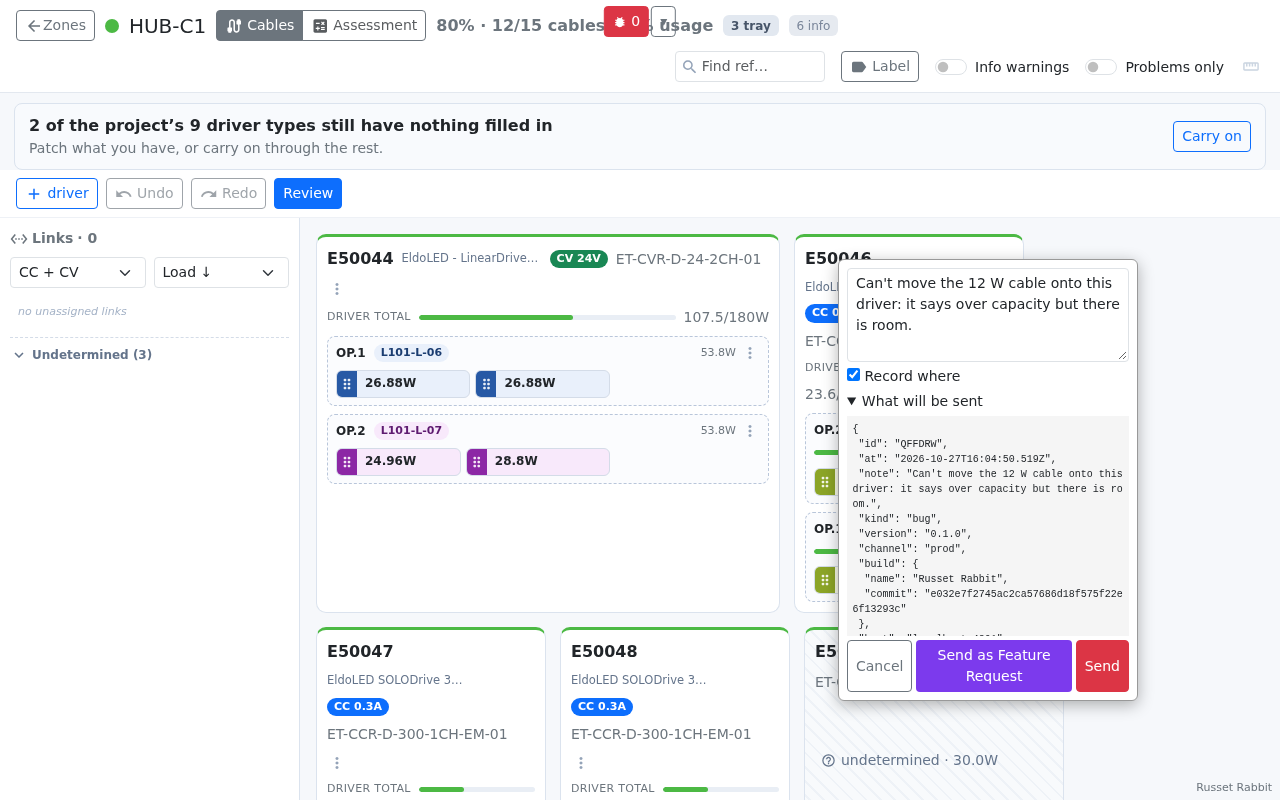
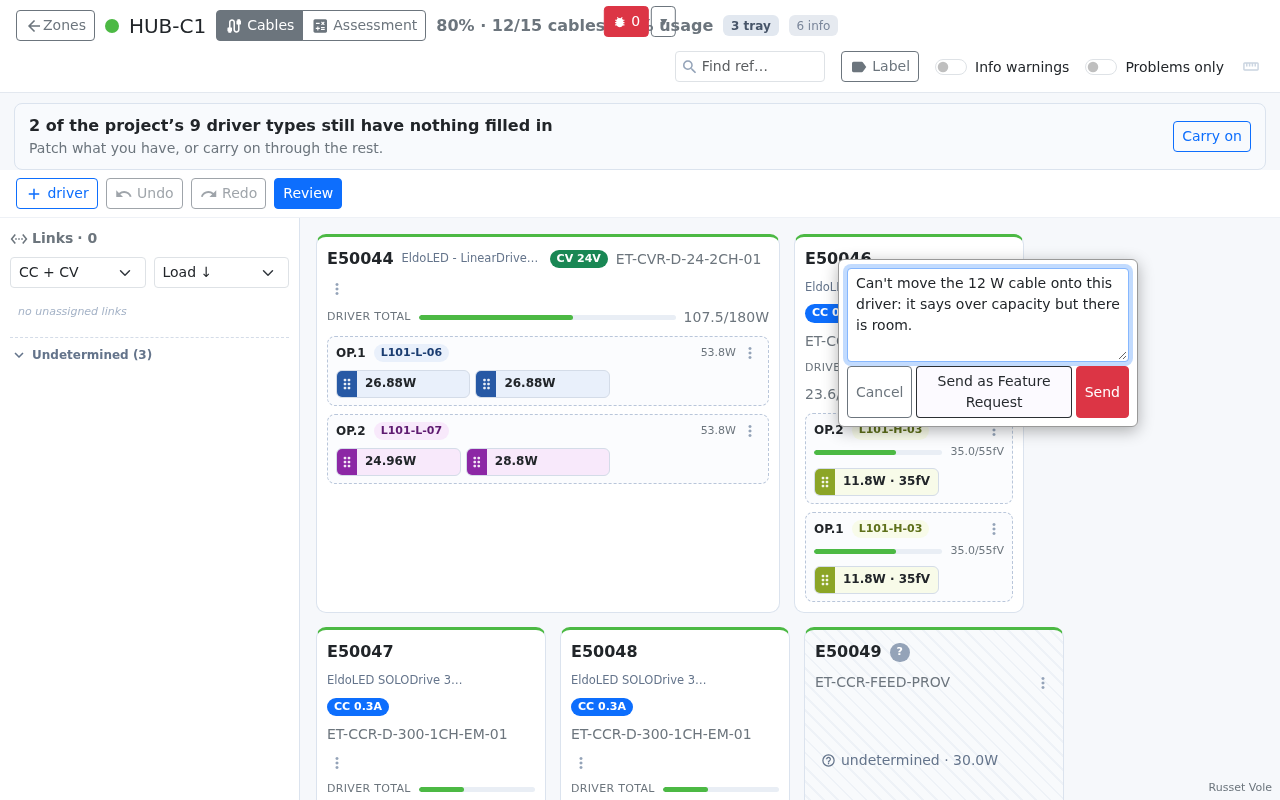
Bug note: always record where, no payload preview
Claude-Session: https://claude.ai/code/session_01SdQWcCESJ4qvoybTAsKLga

Changed region(s): [[0.625, 0.3125, 0.9062, 0.9062], [0.9375, 0.9688, 1.0, 1.0]]

diff --git a/src/components/BugReporter.jsx b/src/components/BugReporter.jsx
@@ -23,7 +23,6 @@ export default function BugReporter({ screen, getApp, getData }) {
   const [menu, setMenu] = useState(false);
   const [note, setNote] = useState(null);       // { x, y, target }
   const [text, setText] = useState('');
-  const [where, setWhere] = useState(true);
   const [toast, setToast] = useState('');
   const screenRef = useRef(screen);
   screenRef.current = screen;
@@ -63,7 +62,7 @@ export default function BugReporter({ screen, getApp, getData }) {
   const toggle = () => { const v = !on; setOn(v); saveMode(v); setNote(null); };
   const commit = (list) => { setReports(list); saveReports(list); };
   const flash = (t) => { setToast(t); setTimeout(() => setToast(''), 2500); };
-  const draft = (kind) => ({ ...buildReport({ note: text.trim(), kind, target: note.target, withWhere: where,
+  const draft = (kind) => ({ ...buildReport({ note: text.trim(), kind, target: note.target, withWhere: true,
     app: { screen: screenRef.current, ...(getApp ? getApp() : {}) }, id: note.id }), ...note.extra });
   const save = async (kind) => {
     if (!text.trim()) return;
@@ -97,21 +96,11 @@ export default function BugReporter({ screen, getApp, getData }) {
   const w = 300;
   const top = note && Math.max(8, Math.min(note.y, window.innerHeight - 220));
   const box = note && (
-    // scrolls rather than run off the bottom once the preview is open
     <div data-bug-reporter className="bug-note"
       style={{ left: Math.max(8, Math.min(note.x, window.innerWidth - w - 8)),
         top, width: w, maxHeight: window.innerHeight - top - 8, overflowY: 'auto' }}>
       <textarea autoFocus rows={4} className="form-control form-control-sm" placeholder="What's wrong?"
         value={text} onChange={(e) => setText(e.target.value)} />
-      <label className="small d-block mt-1">
-        <input type="checkbox" checked={where} onChange={(e) => setWhere(e.target.checked)} /> Record where
-      </label>
-      {canSend && (
-        <details className="bug-preview small mt-1">
-          <summary>What will be sent</summary>
-          <pre>{JSON.stringify(remoteReport(draft(), getData ? getData() : {}), null, 1)}</pre>
-        </details>
-      )}
       <div className="d-flex gap-1 justify-content-end mt-1">
         <button className="btn btn-sm btn-outline-secondary" onClick={() => setNote(null)}>Cancel</button>
         <button className="btn btn-sm bug-feature" disabled={!text.trim()} onClick={() => save('feature')}>{canSend ? 'Send' : 'Save'} as Feature Request</button>

diff --git a/src/styles.css b/src/styles.css
@@ -1171,7 +1171,6 @@ body { background: #f6f8fb; }
 .bug-menu button:hover:not(:disabled) { background: rgba(0,0,0,.06); }
 .bug-note { position: fixed; z-index: 2001; background: var(--bs-body-bg, #fff); border: 1px solid #999; border-radius: 6px; padding: .5rem; box-shadow: 0 4px 16px rgba(0,0,0,.3); }
 .bug-feature { background: #7c3aed; color: #fff; }
-.bug-preview pre { max-height: 220px; overflow: auto; font-size: 10px; background: rgba(0,0,0,.04); padding: .35rem; margin: .25rem 0 0; white-space: pre-wrap; word-break: break-all; }
 .build-badge { position: fixed; bottom: 4px; right: 8px; z-index: 2000; pointer-events: none; font-size: 11px; color: #6c757d; }
 .build-badge.is-dev { color: #dc3545; font-weight: 600; }
 

diff --git a/docs/companion.md b/docs/companion.md
@@ -15,8 +15,8 @@ A 404, an HTML page or no answer at all means there is no companion, so nothing 
 ## What a report sends
 
 `remoteReport()` in `src/bugReports.js` builds the report from allowlists. It never builds one by
-removing fields from a fuller object, so a new field is never sent by default. **What will be sent**
-in the note shows the exact JSON before the person sends it.
+removing fields from a fuller object, so a new field is never sent by default. Where is always
+recorded and the payload is not shown in the note: allowlists, not a preview, are what keep it safe.
 
 - **The row the report is about.** This is looked up in the model by ref, never read from the screen.
   It holds the Element IDs, type, loadings, and the proposed placement beside the baseline. For a
@@ -35,7 +35,7 @@ in the note shows the exact JSON before the person sends it.
 It never sends a CSV, the session, or any free text from the screen: no row text, no button
 labels and no location names.
 
-![Send, with the payload open](img/companion-send.png)
+![Send](img/companion-send.png)
 
 On Pages the same note offers only Save:
 
